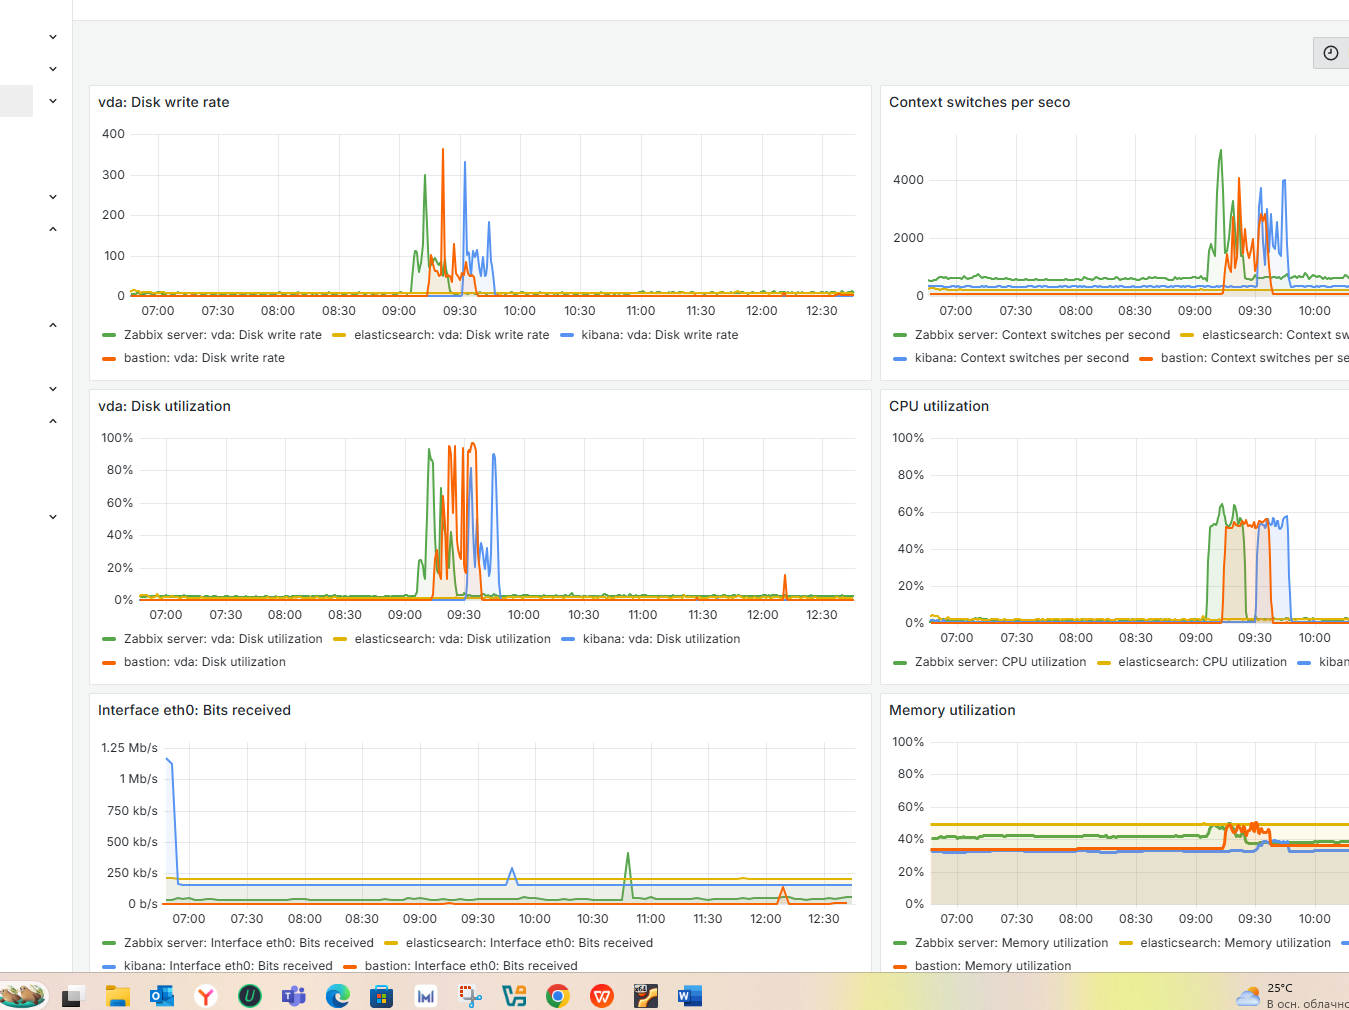
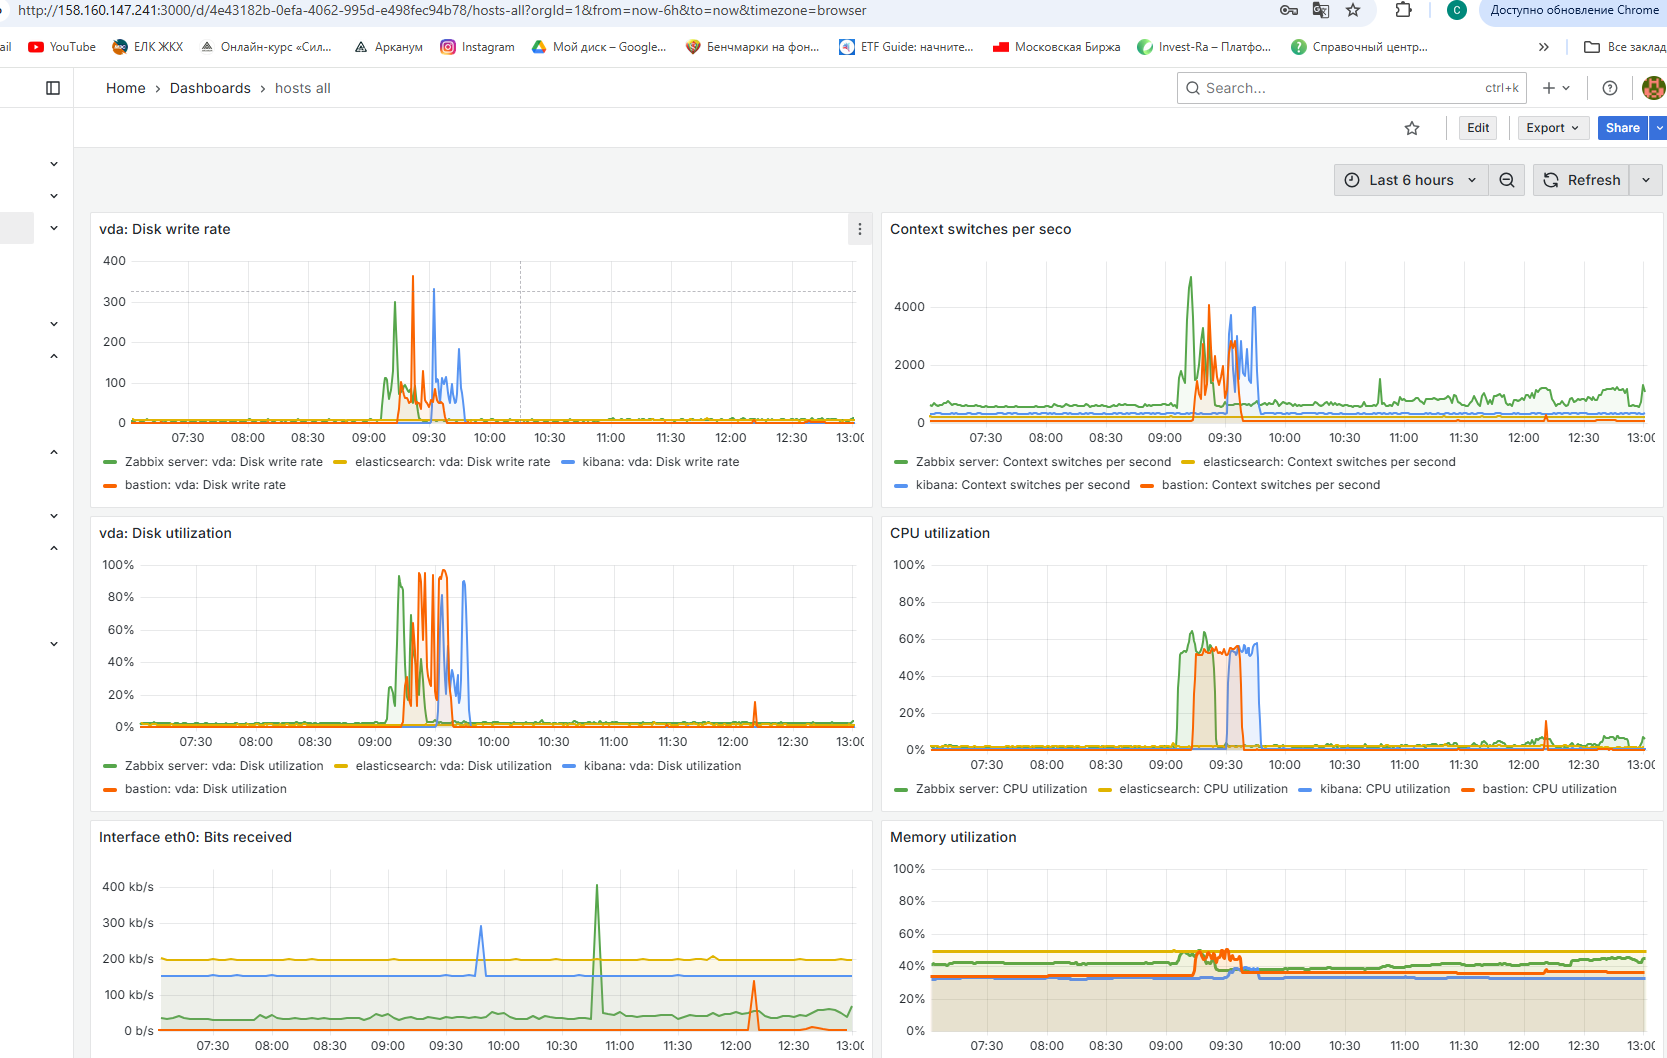
main, komment

Changed region(s): [[0.0, 0.0, 1.0, 1.0], [0.5293, 0.2149, 0.685, 0.2455], [0.6538, 0.1535, 0.685, 0.1842]]

diff --git a/README.md b/README.md
@@ -246,9 +246,9 @@ Cоздайте ВМ, разверните на ней Elasticsearch. Устан
 
 ![img](https://github.com/travickiy67/Diplom1/blob/main/img/grafana/datasource.png)  
 
-*Grafana получает информацию от zabbix, и обнаруживает группы подключонные к zabbix*
+*Grafana получает информацию от zabbix, и обнаруживает группы хостов подключонных к zabbix*
 
 ![img](https://github.com/travickiy67/Diplom1/blob/main/img/grafana/datasource1.png)
 
-
+*Визуализация количества подключений (сгенерировал дополнительно через curl), время отклика
 </details>
